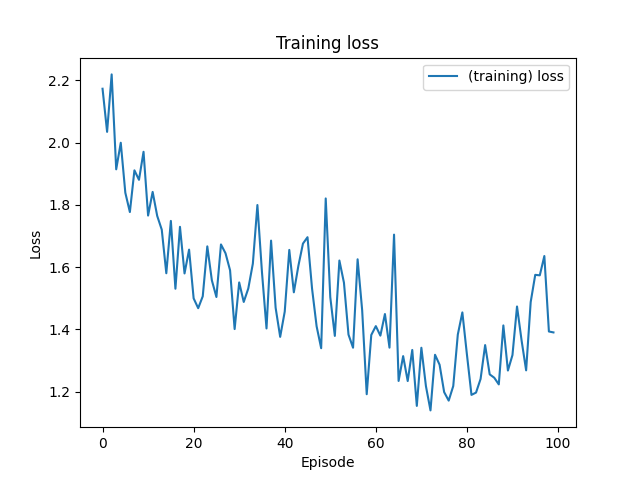
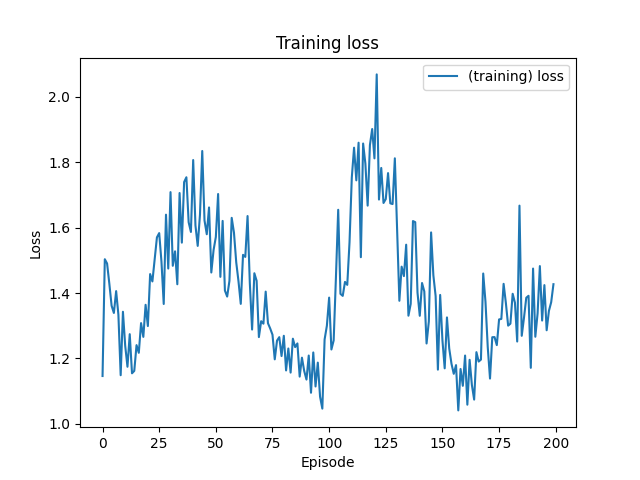
5x5_win

diff --git a/src/parameters.py b/src/parameters.py
@@ -9,8 +9,8 @@ FRAME_DELAY = 0.5
 RUN_TRAINING = True
 
 # RL parameters
-EPISODES = 100
-REPLAY_BUFFER_SIZE = 1024
+EPISODES = 200
+REPLAY_BUFFER_SIZE = 512
 
 # MCTS parameters
 SIMULATION_TIME_OUT = 0.4  # s
@@ -19,7 +19,7 @@ UCT_C = 1  # "theoretically 1"
 # Simulated World
 GAME_TYPE = Game.Hex
 LEDGE_BOARD = (0, 1, 0, 1, 0, 1, 0, 1, 0, 0, 2, 0, 0, 1, 1, 1)  # (0, 2, 0, 1, 0, 1, 1, 1, 0, 0, 0, 0, 1, 0, 1, 0, 1)
-SIZE = 6 if GAME_TYPE == Game.Hex else len(LEDGE_BOARD)  # 3 <= k <= 10
+SIZE = 5 if GAME_TYPE == Game.Hex else len(LEDGE_BOARD)  # 3 <= k <= 10
 STATE_SIZE = 1 + (SIZE ** 2 if GAME_TYPE == Game.Hex else SIZE)
 NUMBER_OF_ACTIONS = SIZE ** 2 if GAME_TYPE == Game.Hex else int((SIZE ** 2 - SIZE) / 2) + 1
 
